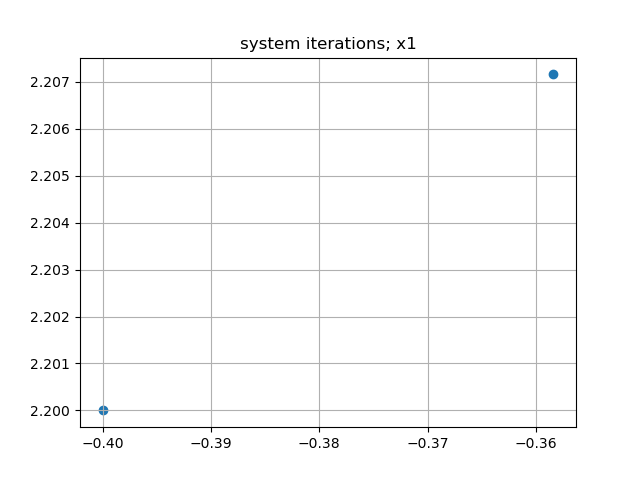
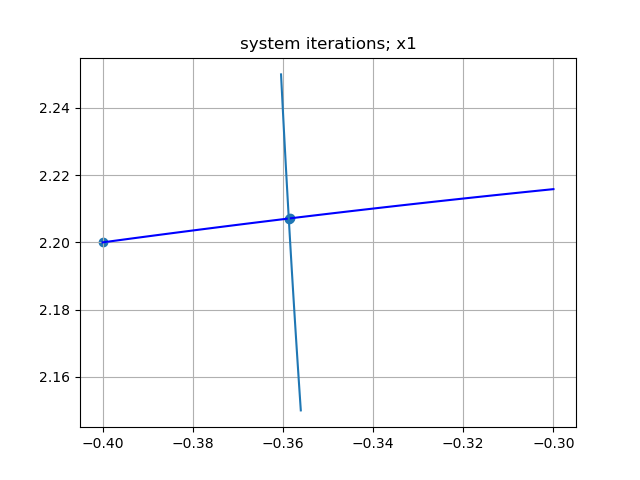
methods update

diff --git a/Lab1/equations_solving/main.cpp b/Lab1/equations_solving/main.cpp
@@ -23,7 +23,7 @@ int main() {
         all_x = newton((a + b)/2, a, b, &f1, &df1); 
         N = all_x.size(); 
         x = all_x[N-1];
-        to_file(all_x, "f1 newton");
+        //to_file(all_x, "f1 newton");
         cout << "x: " << x << "; number of iterations: " << N-1 << "; f(x): " << f1(x) << endl;
     }
 
@@ -32,10 +32,10 @@ int main() {
 
     for (auto [a, b] : intervals1) {
 
-        all_x = iterations((a+b)/2, a, b, 0.001, &f1, &df1, &fi, &dfi); 
+        all_x = iterations((a+b)/2, a, b, 0.00001, &f1, &df1, &fi, &dfi); 
         N = all_x.size();
         x = all_x[N-1];
-        to_file(all_x, "f1 iterations");
+        //to_file(all_x, "f1 iterations");
         cout << "x: " << x << "; number of iterations: " << N-1 << "; f(x): " << f1(x) << endl;
     }
 
@@ -46,7 +46,7 @@ int main() {
         all_x = chords((a+b)/2, a, b, 0.00001, &f1, &d2f1);      
         N = all_x.size();
         x = all_x[N-1];
-        to_file(all_x, "f1 chords");
+        //to_file(all_x, "f1 chords");
         cout << "x: " << x << "; number of iterations: " << N-1 << "; f(x): " << f1(x) << endl;
     }
 
@@ -60,7 +60,7 @@ int main() {
         all_x = newton((a + b)/2, a, b, &f2, &df2);      
         N = all_x.size();
         x = all_x[N-1];
-        to_file(all_x, "f2 newton");
+        //to_file(all_x, "f2 newton");
         cout << "x: " << x << "; number of iterations: " << N-1 << "; f(x): " << f2(x) << endl;
     }
 
@@ -71,7 +71,7 @@ int main() {
         all_x = iterations((a+b)/2, a, b, 0.001, &f2, &df2, &fi, &dfi); 
         N = all_x.size();
         x = all_x[N-1];
-        to_file(all_x, "f2 iterations");
+        //to_file(all_x, "f2 iterations");
         cout << "x: " << x << "; number of iterations: " << N-1 << "; f(x): " << f2(x) << endl;
     }
 
@@ -81,7 +81,7 @@ int main() {
         all_x = chords((a+b)/2, a, b, 0.00001, &f2, &d2f2);      
         N = all_x.size();
         x = all_x[N-1];
-        to_file(all_x, "f2 chords");
+        //to_file(all_x, "f2 chords");
         cout << "x: " << all_x[N-1] << "; number of iterations: " << N-1 << "; f(x): " << f2(x) << endl;
     }
 
@@ -89,19 +89,19 @@ int main() {
 
     double y;
 
-    vector<pair<double, double>> all_x_y = iterations_system(2.2, 0.4, 0.001, &fi1, &fi2);
+    vector<pair<double, double>> all_x_y = iterations_system(2.2, 0.4, 0.00001, &fi1, &fi2);
     N = all_x_y.size();
     x = all_x_y[N-1].first;
     y = all_x_y[N-1].second;
     cout << "x: " << x << "; y: " << y << "; number of iterations: " << N-1 << endl;
-    to_file(all_x_y, "system iterations");
+    //to_file(all_x_y, "system iterations");
 
-    all_x_y = iterations_system(-0.4, 2.2, 0.001, &fi11, &fi22);
+    all_x_y = iterations_system(-0.4, 2.2, 0.00001, &fi11, &fi22);
     N = all_x_y.size();
     x = all_x_y[N-1].first;
     y = all_x_y[N-1].second;
     cout << "x: " << x << "; y: " << y << "; number of iterations: " << N-1 << endl;
-    to_file(all_x_y, "system iterations");
+    //to_file(all_x_y, "system iterations");
 
     return 0;
 }

diff --git a/Lab1/plot.py b/Lab1/plot.py
@@ -1,5 +1,27 @@
 from matplotlib import pyplot as plt
+import seaborn as sns
 import numpy as np
+from sympy.plotting import plot_implicit
+from sympy.parsing.sympy_parser import parse_expr
+
+
+def ezplot(s, d):
+
+    sns.set()
+    sns.set_style("whitegrid", {'grid.linestyle': '--'})
+    #Parse doesn't parse = sign so split
+    lhs1, rhs1 = s.split("=")
+    eqn_lhs1 = parse_expr(lhs1)
+    eqn_rhs1 = parse_expr(rhs1)
+    lhs2, rhs2 = d.split("=")
+    eqn_lhs2 = parse_expr(lhs2)
+    eqn_rhs2 = parse_expr(rhs2)
+
+    p1 = plot_implicit(eqn_lhs1-eqn_rhs1, show=False)
+    p2 = plot_implicit(eqn_lhs2-eqn_rhs2, show=False)
+
+    p1.append(p2[0])
+    p1.show()
 
 
 def plot_points(files, func, save=False):
@@ -26,6 +48,12 @@ def plot_points(files, func, save=False):
 
 def plot_multy_point(file, save=False):
 
+    spaces = [[np.linspace(2.19, 2.22, 100),
+               np.linspace(0.4, 0.425, 100)],
+              [np.linspace(-0.3, -0.4, 100),
+               np.linspace(2.15, 2.25, 100)]
+               ]
+
     with open(file, 'r') as f:
         all_points = f.read().split('\n')[:-1]
     for count, points in enumerate(all_points):
@@ -37,10 +65,12 @@ def plot_multy_point(file, save=False):
             all_x = np.append(all_x, x)
             all_y = np.append(all_y, y)
         
-        least, great = all_x.min(), all_x.max()
-        great = great * 1.1 if great > 0 else great * 0.9
-        least = least * 0.9 if least > 0 else least * 1.1
+
+        space = spaces[count][0]
+        space1 = spaces[count][1]
         plt.figure()
+        plt.plot(space, (5 - space**2)**0.5, c='b')
+        plt.plot(-np.log(space1)/space1, space1)
         plt.scatter(all_x, all_y)
         plt.grid()
         plt.title('system iterations; x' + str(count))
@@ -63,7 +93,6 @@ f_2_files = ['f2 chords.txt', 'f2 iterations.txt', 'f2 newton.txt']
 system = 'system iterations.txt'
 
 
-plot_points(f_1_files, f1, True)
-plot_points(f_2_files, f2, True)
+# plot_points(f_1_files, f1, True)
+# plot_points(f_2_files, f2, True)
 plot_multy_point(system, True)
-

diff --git a/Lab1/equations_solving/methods.cpp b/Lab1/equations_solving/methods.cpp
@@ -75,6 +75,7 @@ vector<double> chords(double x,
     vector<double> all_x;
 
     double x_previos;
+    bool flag;
 
     do {
 
@@ -82,6 +83,8 @@ vector<double> chords(double x,
         x_previos = x;
 
         if (f(b)*d2f(b) > 0)
+             flag = true;
+        if (flag)
             x = x - f(x) * (b - x) / (f(b) - f(x));
         else
             x = x - f(x) * (x - a) / (f(x) - f(a));
